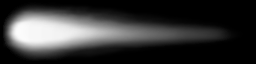
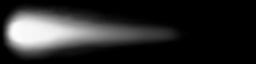
gfx | improved bullets trails

Changed region(s): [[0.1562, 0.1562, 0.9062, 0.875], [0.0, 0.1562, 0.0938, 0.8125]]

diff --git a/src/game/weapon.cpp b/src/game/weapon.cpp
@@ -959,6 +959,7 @@ namespace game
                             if(lookupmaterial(pos)==MAT_WATER) particle_splash(PART_BUBBLE, 1, 150, v, 0x18181A, 2.0f+rnd(2), 20, -30);
                             particle_flare(tail, head, 1, PART_F_BULLET, p.owner->boostmillis[B_ROIDS] ? 0xFF4444 : 0xFFBB88, ATK_GAU8_SHOOT==1 ? 0.75f : 0.65f, p.owner, gfx::champicolor());
                             particle_splash(PART_PLASMA_FRONT, 1, 1, pos, p.owner->boostmillis[B_ROIDS] ? 0xFF4444 : 0xFFBB88,  p.owner==player1 ? 0.65f : ATK_GAU8_SHOOT==1 ? 0.45f : 0.3f, 150, 20, 0, gfx::champicolor());
+                            particle_flare(tail, head, ATK_SV98_SHOOT==1 || ATK_CAMPOUZE_SHOOT==1 ? 1750 : 750, PART_F_SMOKE, 0x333333, ATK_SV98_SHOOT==1 || ATK_CAMPOUZE_SHOOT==1 ? 1.4f : 1.f, p.owner, gfx::champicolor());
                             break;
                         case ATK_MINIGUN_SHOOT:
                         case ATK_AK47_SHOOT:
@@ -968,12 +969,14 @@ namespace game
                             if(lookupmaterial(pos)==MAT_WATER) particle_splash(PART_BUBBLE, 1, 150, v, 0x18181A, 1.0f+rnd(2), 20, -30);
                             particle_flare(tail, head, 1, PART_F_BULLET, p.owner->boostmillis[B_ROIDS] ? 0xFF4444 : 0xFFBB88, ATK_MINIGUN_SHOOT==1 || ATK_AK47_SHOOT==1 ? 0.55f : 0.45f, p.owner, gfx::champicolor());
                             particle_splash(PART_PLASMA_FRONT, 1, 1, pos, p.owner->boostmillis[B_ROIDS] ? 0xFF4444 : 0xFFBB88, p.owner==player1 ? 0.4f : ATK_MINIGUN_SHOOT==1 || ATK_AK47_SHOOT==1 ? 0.3f : 0.24f, 150, 20, 0, gfx::champicolor());
+                            particle_flare(tail, head, ATK_MINIGUN_SHOOT==1 || ATK_AK47_SHOOT==1 ? 1250 : 750, PART_F_SMOKE, 0x252525, ATK_MINIGUN_SHOOT==1 || ATK_AK47_SHOOT==1 ? 1.f : 0.75f, p.owner, gfx::champicolor());
                             break;
                         case ATK_ARBALETE_SHOOT:
                             if(!p.exploded)
                             {
                                 if(lookupmaterial(pos)==MAT_WATER) particle_splash(PART_BUBBLE, 1, 150, v, 0x888888, 1.0f+rnd(2), 20, -30);
-                                particle_splash(PART_SMOKE, 3, 250, pos, 0xBBBBBB, 1.f, 25, 250, 0, gfx::champicolor());
+                                particle_flare(tail, head, 250, PART_F_SMOKE, 0x444444, 0.60f, p.owner, gfx::champicolor());
+
                                 if(p.owner->boostmillis[B_ROIDS])
                                 {
                                     particle_flare(tail, head, 1, PART_F_BULLET, 0xFF4444, 0.30f, p.owner, gfx::champicolor());

diff --git a/src/shared/iengine.h b/src/shared/iengine.h
@@ -330,7 +330,7 @@ enum
     // guns muzzle flashes
     PART_MF_LITTLE, PART_MF_BIG, PART_MF_ELEC, PART_MF_PLASMA, PART_MF_ROCKET, PART_MF_SHOTGUN, PART_MF_SNIPER,
     // bullets flares
-    PART_F_BULLET, PART_F_SHOTGUN, PART_F_PLASMA, PART_SPOCK_FRONT, PART_PLASMA_FRONT,
+    PART_F_BULLET, PART_F_SHOTGUN, PART_F_PLASMA, PART_F_SMOKE, PART_SPOCK_FRONT, PART_PLASMA_FRONT,
     // flames and smokes
     PART_SMOKE, PART_FLAME, PART_FIRE_BALL, PART_FIRESPARK,
     // water
